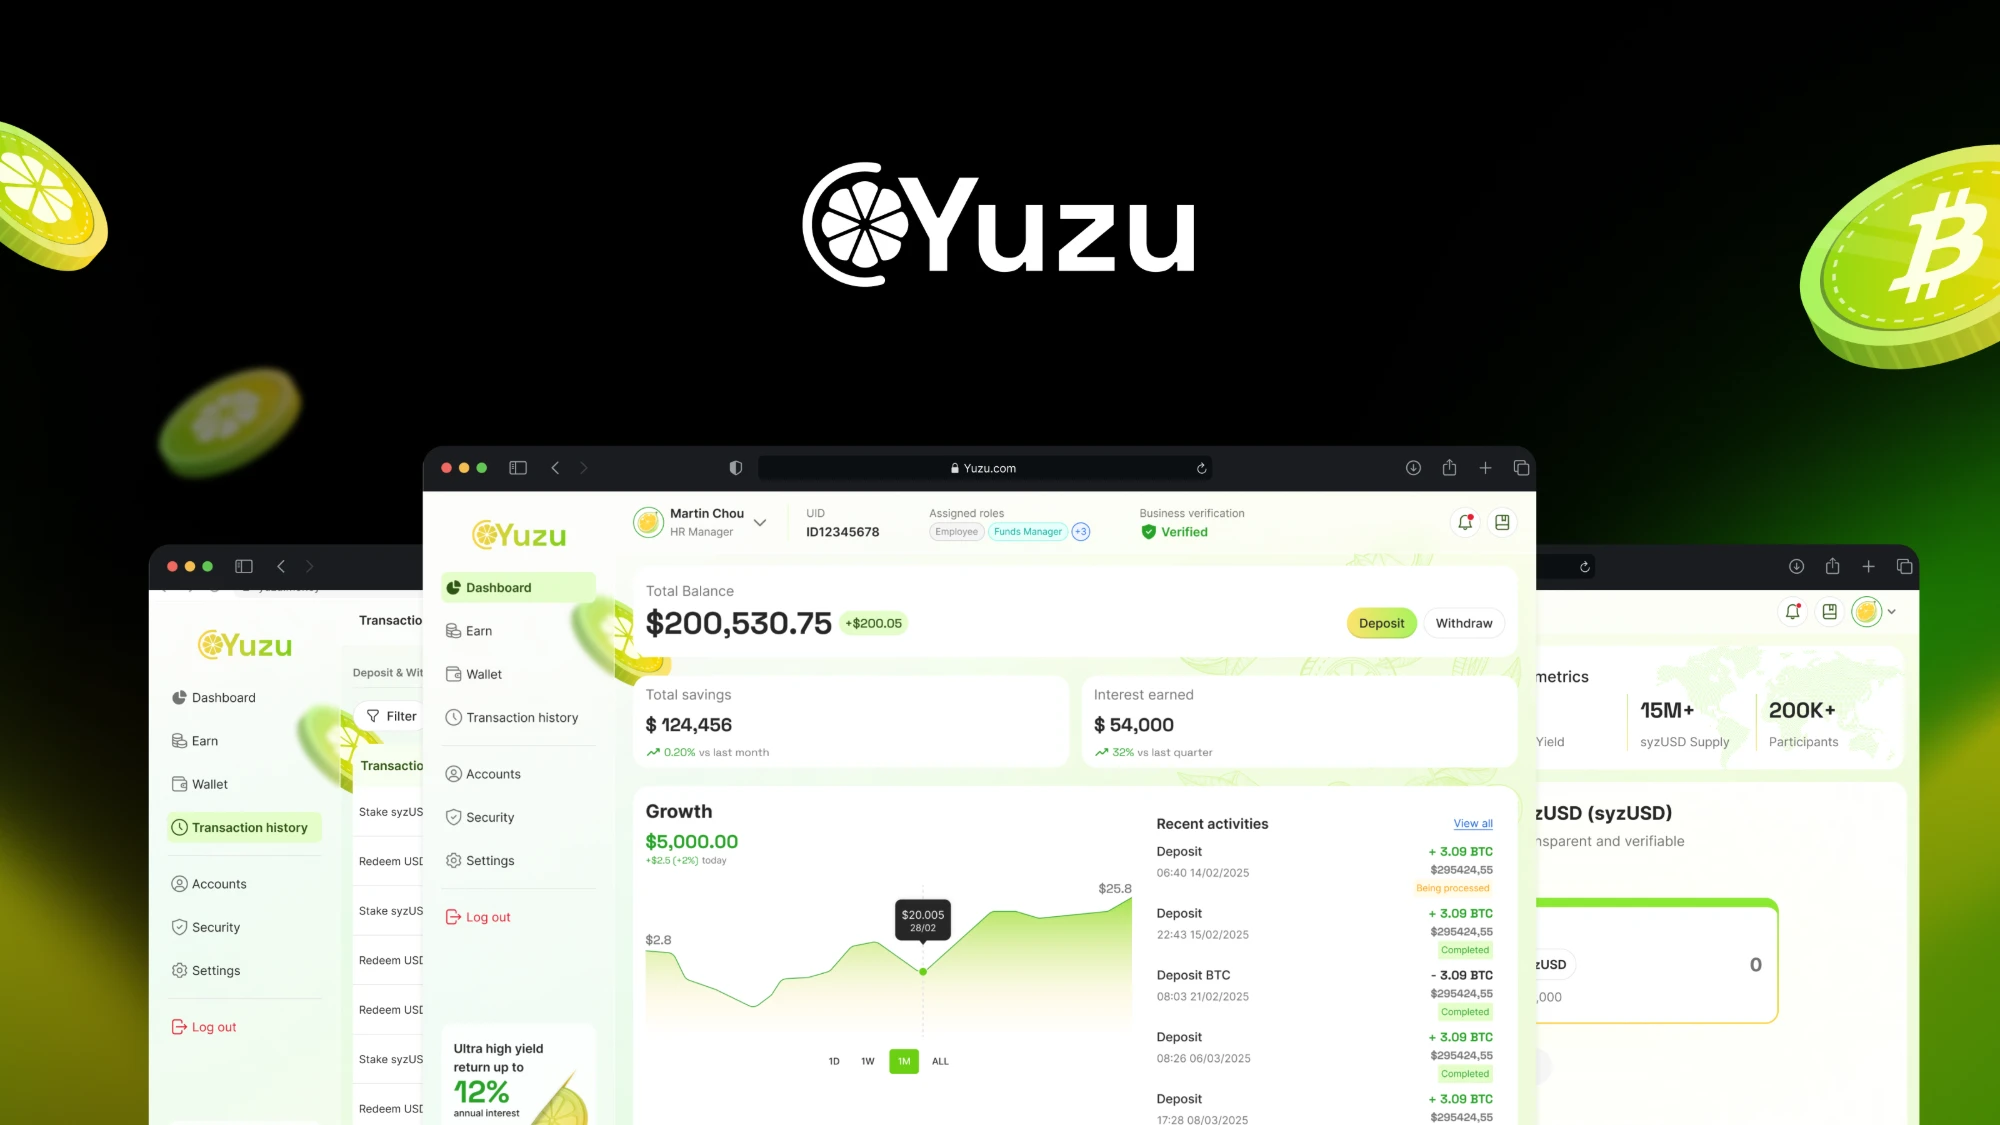
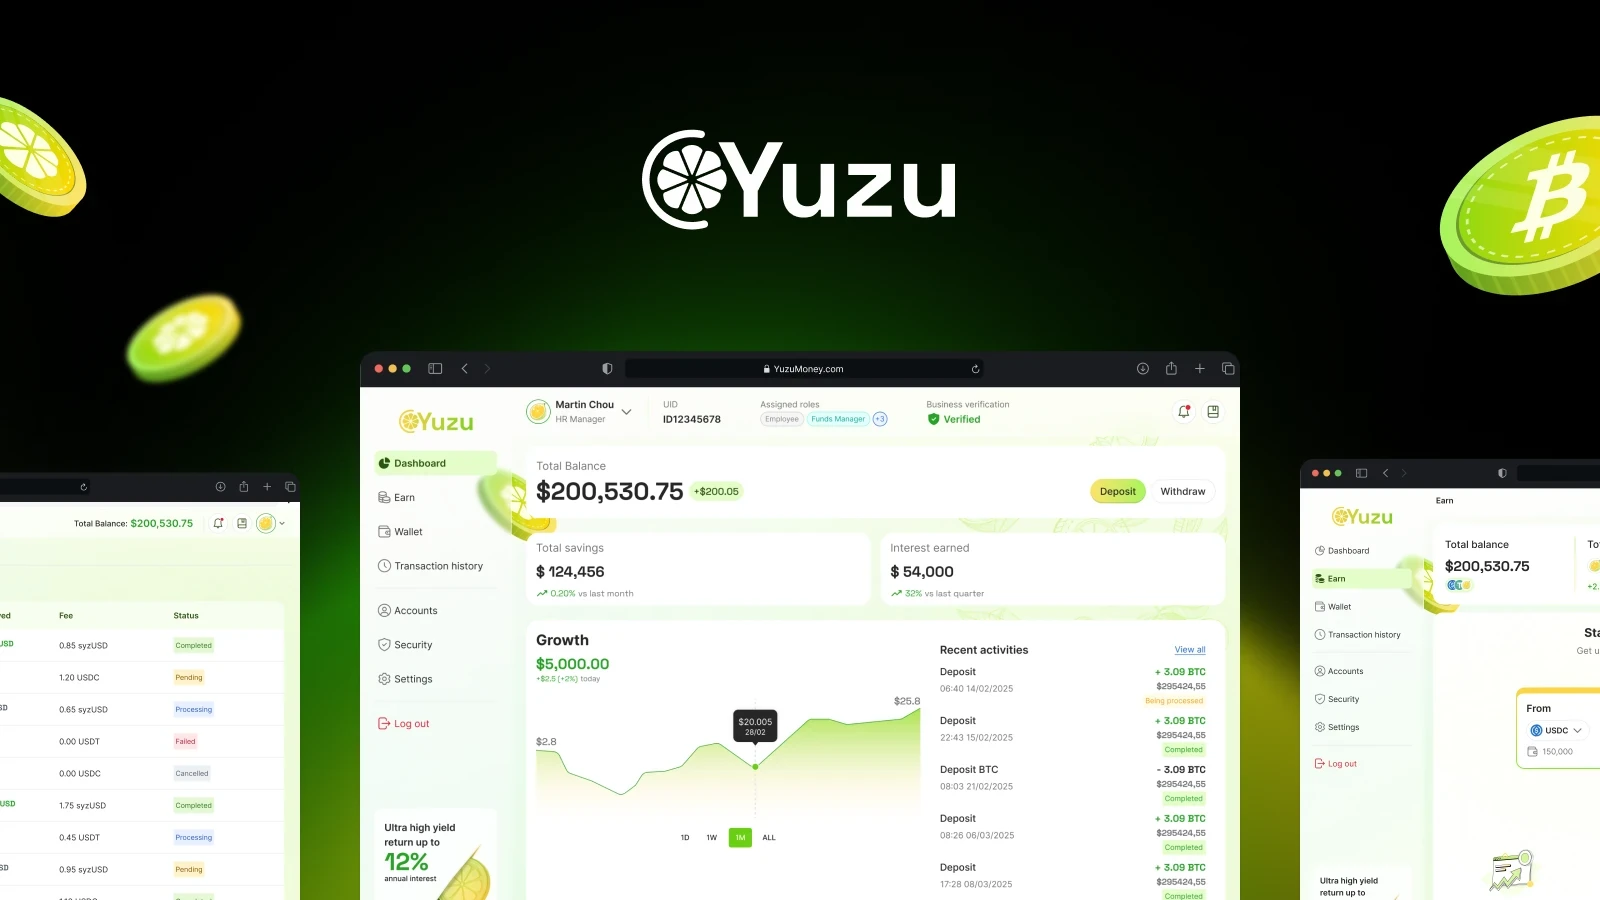
Update the Yuzu card artwork
The real one this time: the Yuzu mark over the dashboard, with the
transaction history and the Earn screen either side. Opened and checked
before writing, which is the step I skipped last round.

1600 x 900 — already 16:9, so no crop — and kept at its own resolution
rather than upscaled to the 2000 x 1125 the previous file used. The card
renders about 409px wide, so the extra pixels buy nothing and the
interpolation would only soften a picture made of small UI type.

diff --git a/src/content/work.ts b/src/content/work.ts
@@ -69,7 +69,7 @@ export const projects: Project[] = [
     logo: { src: '/assets/brand/yuzu-icon.png', alt: 'Yuzu Money' },
     shot: {
       src: '/assets/work/yuzu.webp',
-      alt: 'Yuzu Money — dashboard with total balance, savings and growth chart beside the transaction history and syzUSD metrics screens',
+      alt: 'Yuzu Money — the Yuzu mark over the dashboard: total balance, savings and a growth chart, with the transaction history and the Earn screen either side',
     },
   },
   {
